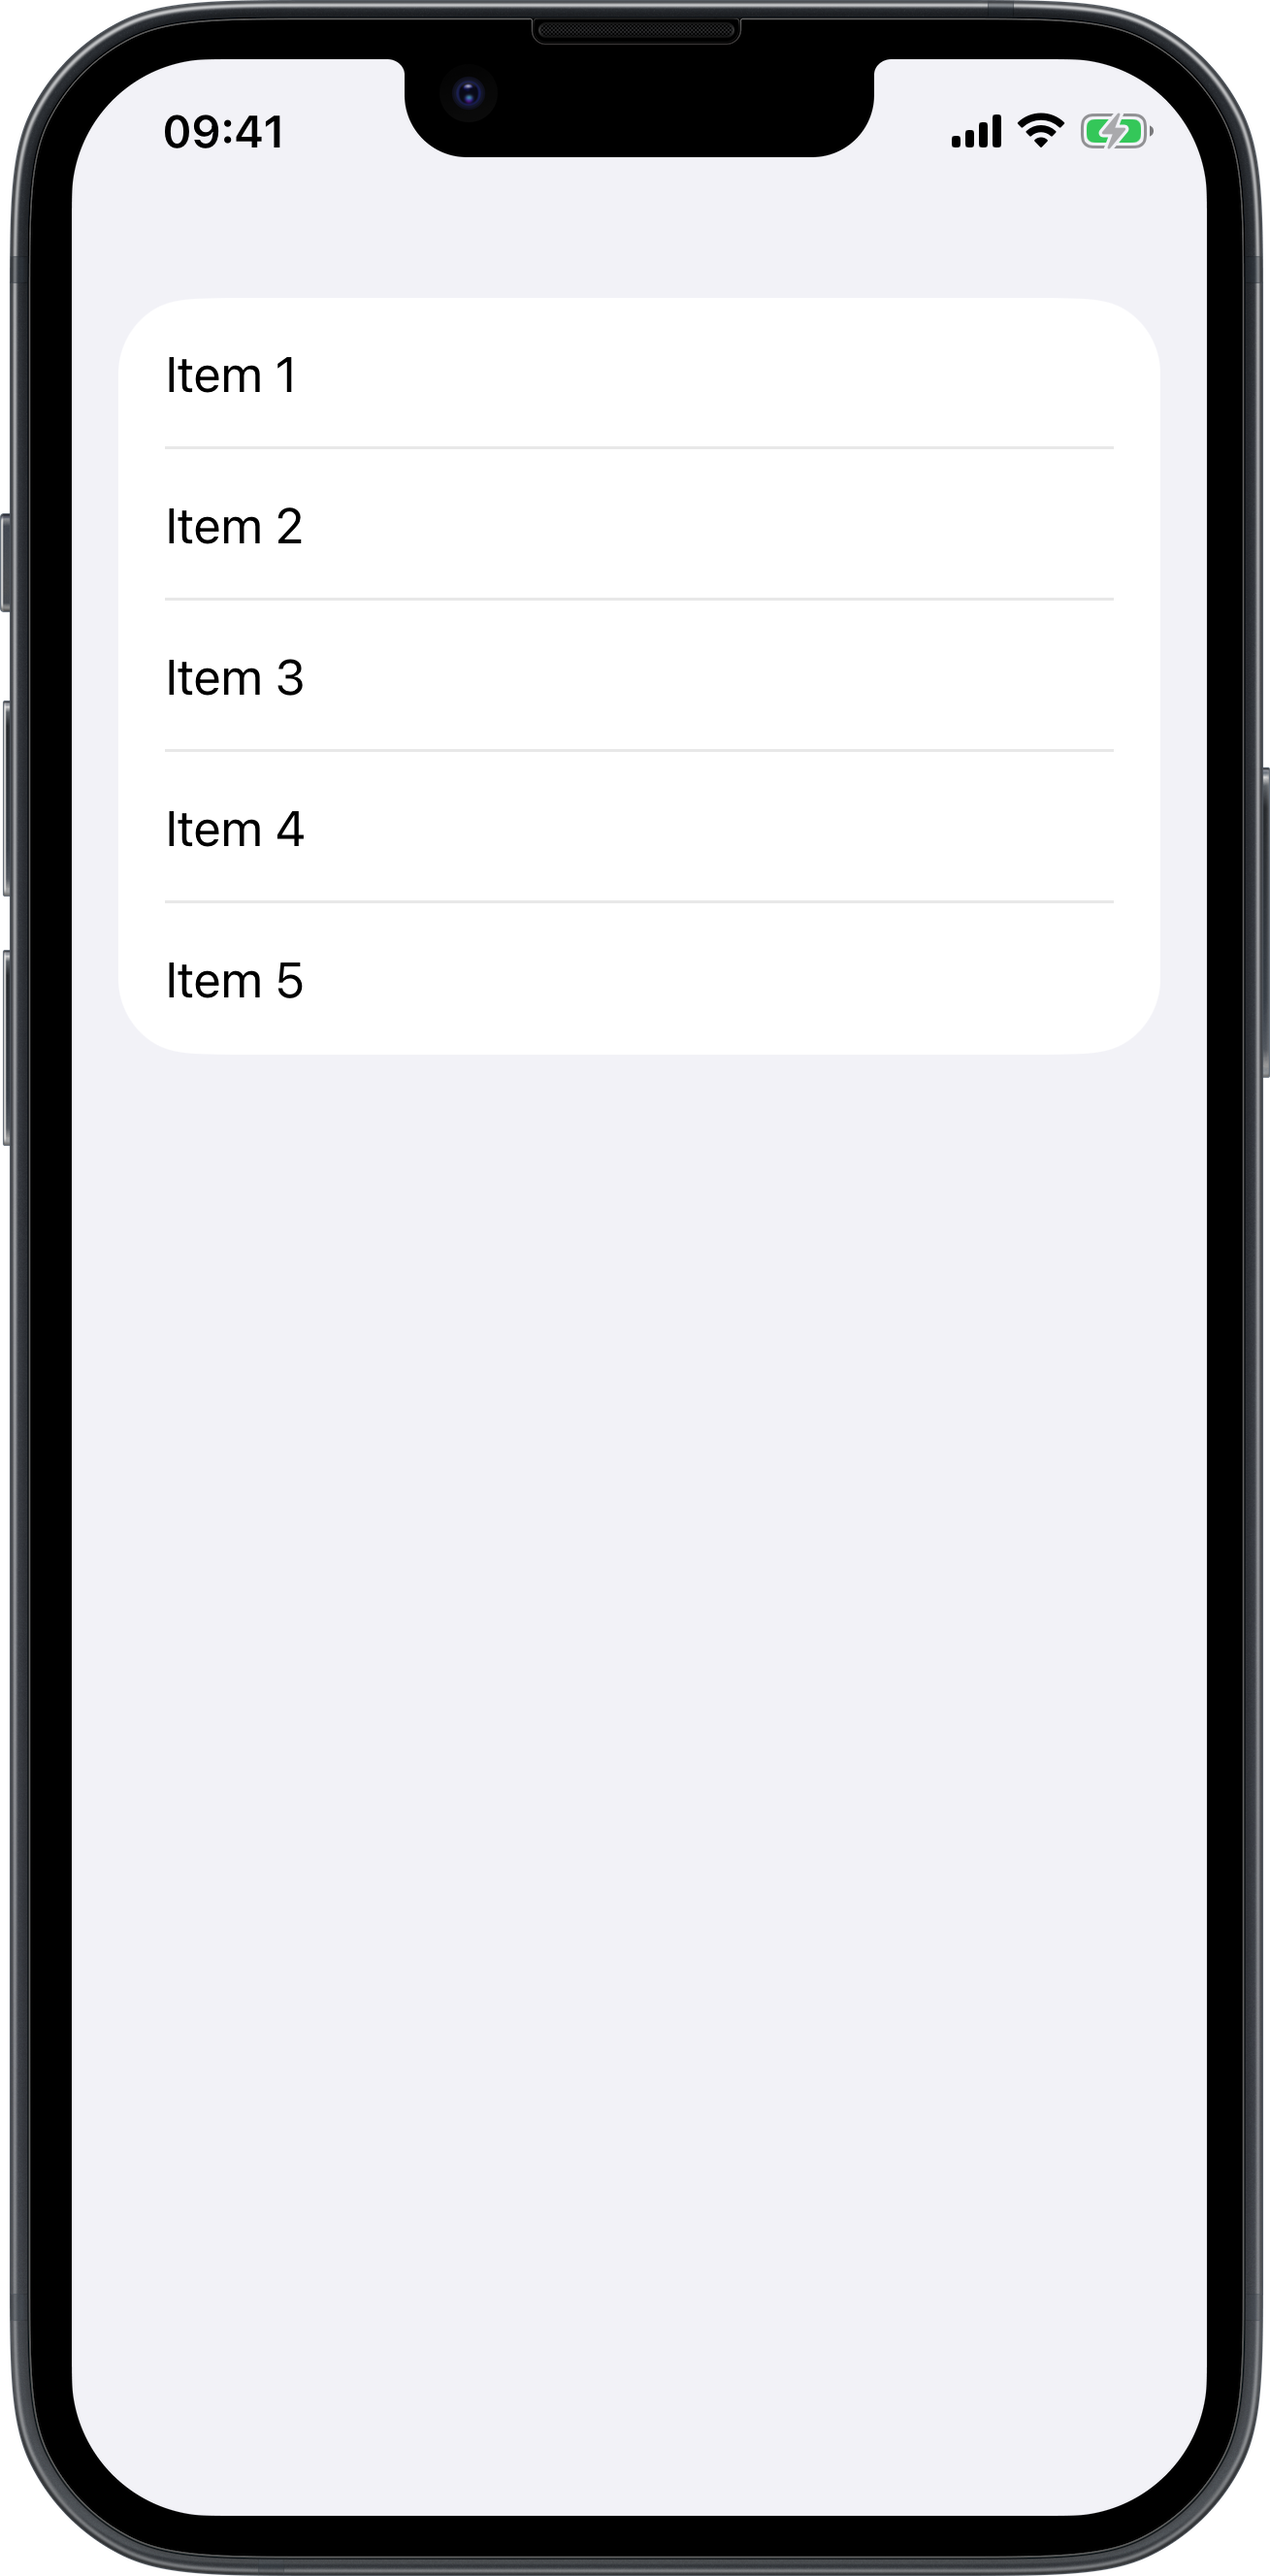
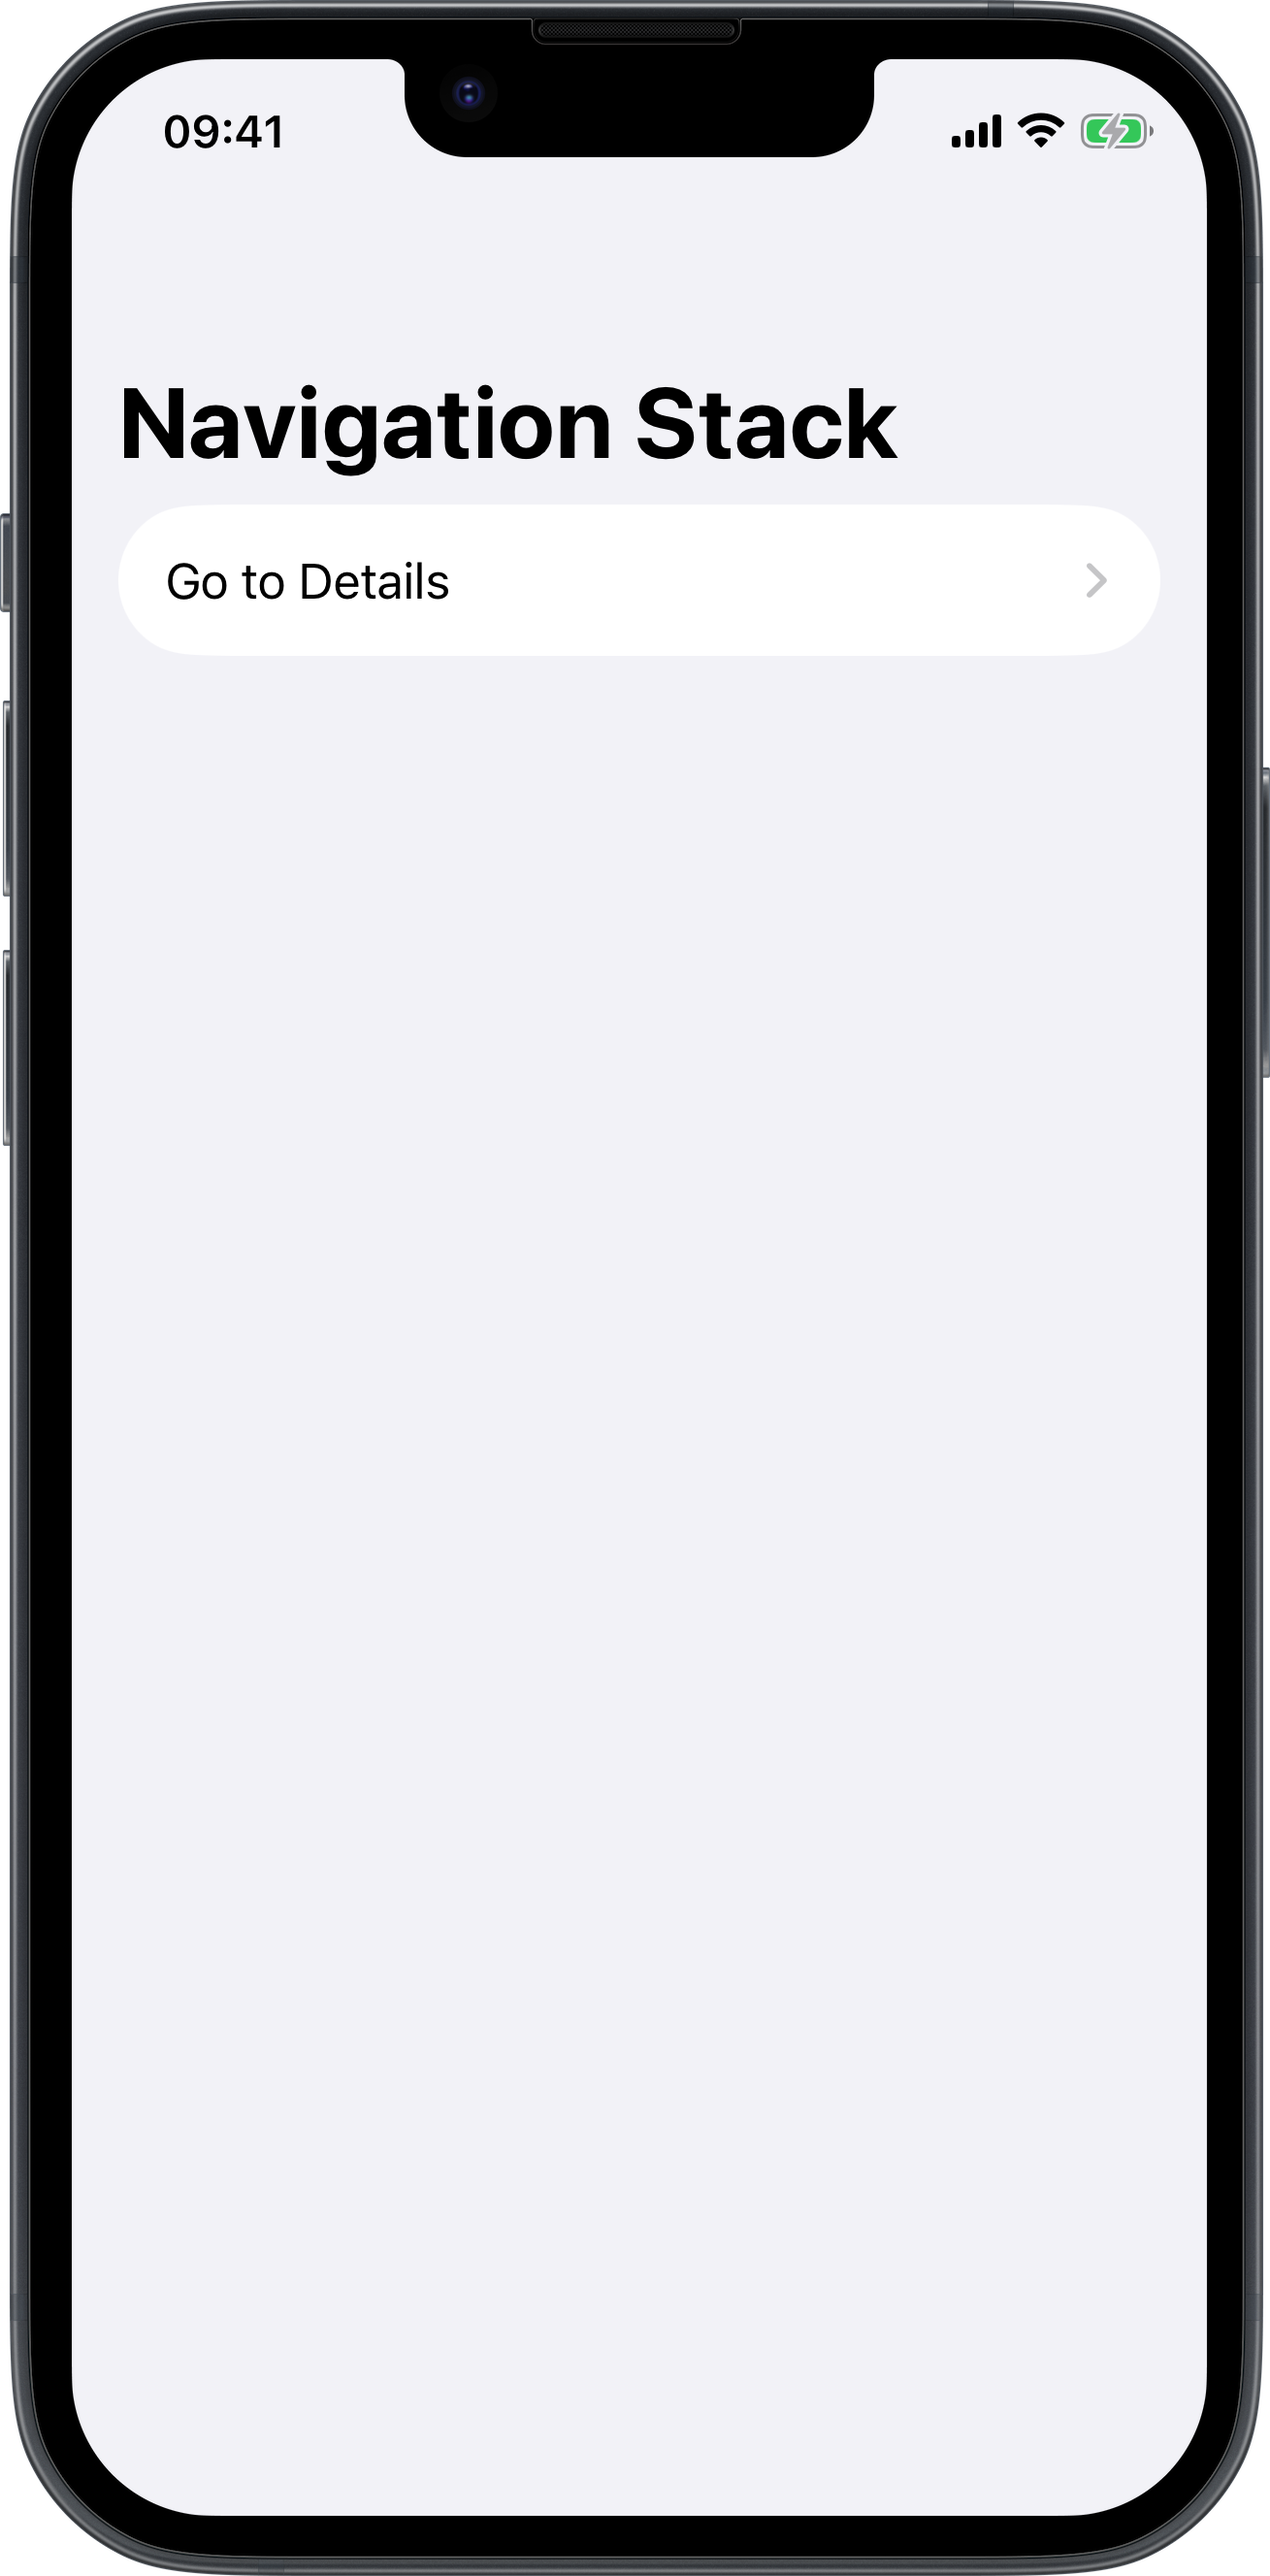
updated

Changed region(s): [[0.0917, 0.1235, 0.7028, 0.278], [0.1222, 0.3706, 0.2445, 0.4015], [0.1222, 0.3089, 0.2445, 0.3397]]

diff --git a/Views/Controls/navigationstack.md b/Views/Controls/navigationstack.md
@@ -1,91 +1,47 @@
-**List** is a container that presents rows of data arranged in a single column, similar to UITableView in UIKit but with a more declarative and simpler syntax. It's commonly used for displaying a collection of items in a structured format and supports features like selection, deletion, and reordering of items if needed.
+**NavigationStack** is a view that displays a root view and allows the user to navigate to subsequent views in a stack. It's the recommended way to manage navigation in SwiftUI for apps targeting iOS 16 and later, replacing the deprecated `NavigationView`.
+
+`NavigationStack` provides a more flexible and powerful way to handle navigation, including programmatic navigation and deep linking.
 
 ***Parameters:***
 
-`listStyle` (optional) This parameter determines the horizontal alignment of the views within the VStack. It's of type HorizontalAlignment and can take the following values:
-* `automatic` The standard or default list style that automatically adapts to the current platform or theme.
-* `plain` A simple, plain style that does not show separators between rows by default and does not indent rows.
-* `grouped` This style groups items in sections, similar to the grouped style in UIKit's UITableView. It's often used with a Section view to create distinct groups of items.
-* `inset` Provides an inset appearance to the list, with margins on the sides, giving it a card-like feel.
-* `insetGrouped` Combines the inset style with grouped sections, offering a modern look with background and spacing around grouped items.
-* `sidebar` Optimized for use in sidebars, particularly in macOS or iPadOS apps, where the list acts as a navigation pane.
+*   `navigationTitle`: The title to display in the navigation bar.
+*   `navigationTitleDisplayMode`: An attribute that controls how the navigation title is displayed. It can have one of the following values:
+    *   `automatic`: The default mode, which typically displays a large title that transitions to an inline title as the user scrolls.
+    *   `large`: Always displays a large title.
+    *   `inline`: Always displays a smaller, inline title within the navigation bar.
 
-> **Default value:** `automatic`
+***Example:***
 
-
+The example below shows a `NavigationStack` containing a `List`. The `navigationTitle` is set to "Navigation Stack". A `NavigationLink` within the list allows the user to navigate to a detail view.
 
 ```xml
 <body>
-    <list>
-        <text>Item 1</text>
-        <text>Item 2</text>
-        <text>Item 3</text>
-        <text>Item 4</text>
-        <text>Item 5</text>
-    </list>
+    <navigationstack>
+        <list navigationTitle="Navigation Stack">
+            <navigationlink destination="viewDetails">
+                <text>Go to Details</text>
+            </navigationlink>
+        </list>
+    </navigationstack>
+    <text id="viewDetails">Details</text>
 </body>
 ```
 <img src="/Screenshots/Views/Controls/navigationstack_1.png" width="250" alt="Screenshot">
 
+***Inline Title Example:***
 
----
-*grouped List*
+This example demonstrates the use of `navigationTitleDisplayMode="inline"` to force the navigation title to always be displayed in the smaller, inline format.
 
 ```xml
 <body>
-    <list listStyle="grouped">
-        <text>Item 1</text>
-        <text>Item 2</text>
-        <text>Item 3</text>
-        <text>Item 4</text>
-        <text>Item 5</text>
-    </list>
+    <navigationstack>
+        <list navigationTitle="Navigation Stack" navigationTitleDisplayMode="inline">
+            <navigationlink destination="viewDetails">
+                <text>Go to Details</text>
+            </navigationlink>
+        </list>
+    </navigationstack>
+    <text id="viewDetails">Details</text>
 </body>
 ```
 <img src="/Screenshots/Views/Controls/navigationstack_2.png" width="250" alt="Screenshot">
-
-
----
-*insetGrouped List*
-
-```xml
-<body>
-    <list listStyle="insetGrouped">
-        <text>Item 1</text>
-        <text>Item 2</text>
-        <text>Item 3</text>
-        <text>Item 4</text>
-        <text>Item 5</text>
-    </list>
-</body>
-```
-<img src="/Screenshots/Views/Controls/navigationstack_3.png" width="250" alt="Screenshot">
-
-
----
-*List with sections*
-
-```xml
-<body>
-    <list>
-        <section header="Section 1 Header" footer="Section 1 Footer">
-            <text>Item 1</text>
-            <text>Item 2</text>
-            <text>Item 3</text>
-            <text>Item 4</text>
-            <text>Item 5</text>
-        </section>
-        <section header="Section 2 Header" footer="Section 2 Footer">
-            <text>Item 1</text>
-            <text>Item 2</text>
-            <text>Item 3</text>
-            <text>Item 4</text>
-            <text>Item 5</text>
-        </section>
-    </list>
-</body>
-```
-<img src="/Screenshots/Views/Controls/navigationstack_4.png" width="250" alt="Screenshot">
-
-
----

diff --git a/Views/Controls/navigationview.md b/Views/Controls/navigationview.md
@@ -1,91 +1,47 @@
-**List** is a container that presents rows of data arranged in a single column, similar to UITableView in UIKit but with a more declarative and simpler syntax. It's commonly used for displaying a collection of items in a structured format and supports features like selection, deletion, and reordering of items if needed.
+**NavigationView** is a container view that provides a navigation interface for hierarchical content. It's used to manage a stack of views, allowing users to navigate to deeper levels of content and return.
+
+**Note:** `NavigationView` is deprecated in iOS 16 and later. For new apps, or apps targeting newer OS versions, it is recommended to use `NavigationStack`.
 
 ***Parameters:***
 
-`listStyle` (optional) This parameter determines the horizontal alignment of the views within the VStack. It's of type HorizontalAlignment and can take the following values:
-* `automatic` The standard or default list style that automatically adapts to the current platform or theme.
-* `plain` A simple, plain style that does not show separators between rows by default and does not indent rows.
-* `grouped` This style groups items in sections, similar to the grouped style in UIKit's UITableView. It's often used with a Section view to create distinct groups of items.
-* `inset` Provides an inset appearance to the list, with margins on the sides, giving it a card-like feel.
-* `insetGrouped` Combines the inset style with grouped sections, offering a modern look with background and spacing around grouped items.
-* `sidebar` Optimized for use in sidebars, particularly in macOS or iPadOS apps, where the list acts as a navigation pane.
+*   `navigationTitle`: The title to display in the navigation bar.
+*   `navigationTitleDisplayMode`: An attribute that controls how the navigation title is displayed. It can have one of the following values:
+    *   `automatic`: The default mode, which typically displays a large title that transitions to an inline title as the user scrolls.
+    *   `large`: Always displays a large title.
+    *   `inline`: Always displays a smaller, inline title within the navigation bar.
 
-> **Default value:** `automatic`
+***Example:***
 
-
+The example below shows a `NavigationView` containing a `List`. The `navigationTitle` is set to "Navigation View". A `NavigationLink` within the list allows the user to navigate to a detail view.
 
 ```xml
 <body>
-    <list>
-        <text>Item 1</text>
-        <text>Item 2</text>
-        <text>Item 3</text>
-        <text>Item 4</text>
-        <text>Item 5</text>
-    </list>
+    <navigationview>
+        <list navigationTitle="Navigation View">
+            <navigationlink destination="viewDetails">
+                <text>Go to Details</text>
+            </navigationlink>
+        </list>
+    </navigationview>
+    <text id="viewDetails">Details</text>
 </body>
 ```
 <img src="/Screenshots/Views/Controls/navigationview_1.png" width="250" alt="Screenshot">
 
+***Inline Title Example:***
 
----
-*grouped List*
+This example demonstrates the use of `navigationTitleDisplayMode="inline"` to force the navigation title to always be displayed in the smaller, inline format.
 
 ```xml
 <body>
-    <list listStyle="grouped">
-        <text>Item 1</text>
-        <text>Item 2</text>
-        <text>Item 3</text>
-        <text>Item 4</text>
-        <text>Item 5</text>
-    </list>
+    <navigationview>
+        <list navigationTitle="Navigation View" navigationTitleDisplayMode="inline">
+            <navigationlink destination="viewDetails">
+                <text>Go to Details</text>
+            </navigationlink>
+        </list>
+    </navigationview>
+    <text id="viewDetails">Details</text>
 </body>
 ```
 <img src="/Screenshots/Views/Controls/navigationview_2.png" width="250" alt="Screenshot">
-
-
----
-*insetGrouped List*
-
-```xml
-<body>
-    <list listStyle="insetGrouped">
-        <text>Item 1</text>
-        <text>Item 2</text>
-        <text>Item 3</text>
-        <text>Item 4</text>
-        <text>Item 5</text>
-    </list>
-</body>
-```
-<img src="/Screenshots/Views/Controls/navigationview_3.png" width="250" alt="Screenshot">
-
-
----
-*List with sections*
-
-```xml
-<body>
-    <list>
-        <section header="Section 1 Header" footer="Section 1 Footer">
-            <text>Item 1</text>
-            <text>Item 2</text>
-            <text>Item 3</text>
-            <text>Item 4</text>
-            <text>Item 5</text>
-        </section>
-        <section header="Section 2 Header" footer="Section 2 Footer">
-            <text>Item 1</text>
-            <text>Item 2</text>
-            <text>Item 3</text>
-            <text>Item 4</text>
-            <text>Item 5</text>
-        </section>
-    </list>
-</body>
-```
-<img src="/Screenshots/Views/Controls/navigationview_4.png" width="250" alt="Screenshot">
-
-
----
